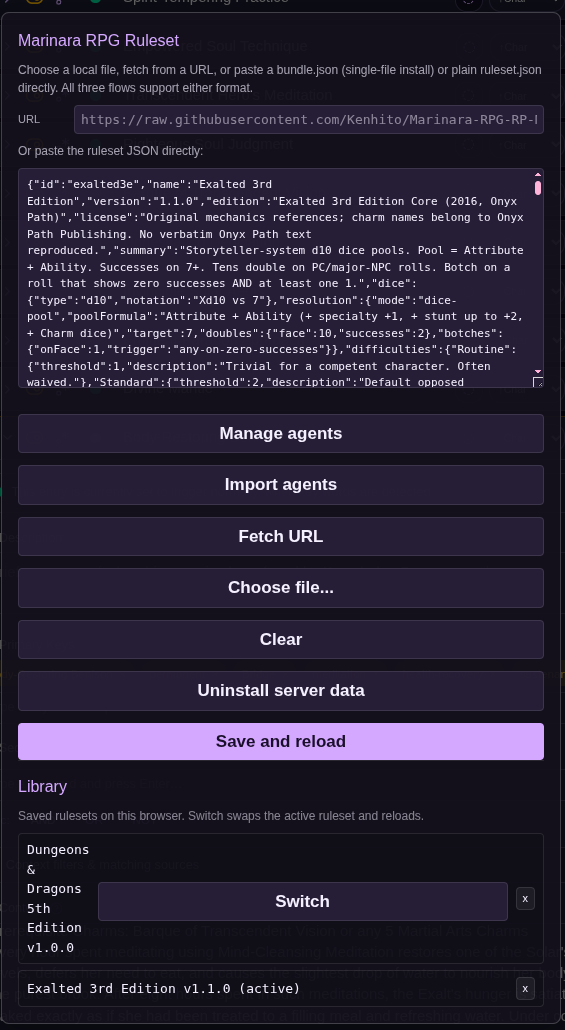
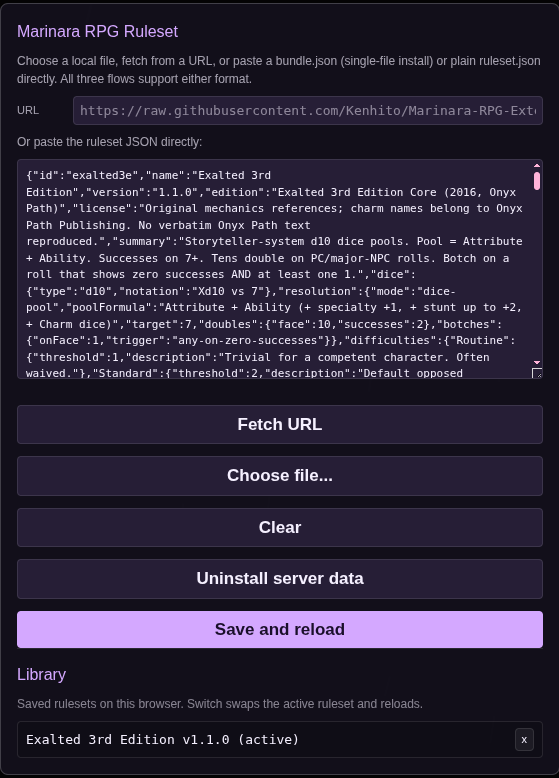
feat(extension): remove Manage agents button from Ruleset dialog
The Manage agents button was framework plumbing intended for the
RP-mode sister extension; in GM mode it never registered usable
agents because GM-mode chats run in chatMode: "game". Drop the
button, its click handler, and the now-orphaned helpers
(openAgentManagerDialog, listManagedAgentsByRuleset,
deleteManagedAgents, state.agentMgrDialogEl).

Also refresh docs/screenshots/ruleset-ui.png to match the new
button-less dialog and remove the README heads-up that was
flagging the agent buttons as RP-mode-only — they're gone now.

diff --git a/extension/RPG-Extension-GM-Mode.js b/extension/RPG-Extension-GM-Mode.js
@@ -89,7 +89,6 @@ var state = {
   dialogEl:          null,
   itemDialogEl:      null,
   abilityDialogEl:   null,
-  agentMgrDialogEl:  null,
   gearEl:            null,
   toggleEl:          null,
   spellbookEl:       null,
@@ -578,34 +577,6 @@ function installBundle(bundle, progressCb) {
    ruleset id. The local ruleset cache is left in place — Clear handles that
    separately. Same match strategy as install: settings flags on the agent,
    tag array on the lorebook. */
-/* List every agent the extension previously installed, grouped by
-   mrrRulesetId. Returns a Promise resolving to a map
-   { rulesetId: [{id, name, role, authorId, enabled}, ...] }
-   so the manage-agents UI can display + bulk-delete. Includes both the
-   main GM-style agent (no role) and any additionalAgents (with role).
-   Pre-existing duplicates (whether from older install code or authorId
-   drift) all show up and can be removed. */
-function listManagedAgentsByRuleset() {
-  return apiFetch("/agents").then(function (agents) {
-    var groups = {};
-    if (!Array.isArray(agents)) return groups;
-    agents.forEach(function (a) {
-      var s = parseAgentSettings(a);
-      if (s.mrrManaged !== true) return;
-      var rid = s.mrrRulesetId || "(unknown)";
-      if (!groups[rid]) groups[rid] = [];
-      groups[rid].push({
-        id: a.id,
-        name: a.name,
-        role: s.mrrAgentRole || null,
-        authorId: s.mrrAuthorId || null,
-        enabled: a.enabled === true || a.enabled === "true"
-      });
-    });
-    return groups;
-  });
-}
-
 /* The engine's DELETE endpoints (/agents/:id, /lorebooks/:id,
    /lorebooks/:lbId/entries/:entryId, etc.) all return 204 No Content with
    an empty body. marinara.apiFetch always calls res.json() unconditionally
@@ -645,96 +616,6 @@ function apiPostRaw(path, body) {
       throw err;
     });
   });
-}
-
-function deleteManagedAgents(ids, progressCb) {
-  function progress(msg) { if (progressCb) progressCb(msg); }
-  if (!Array.isArray(ids) || !ids.length) return Promise.resolve(0);
-  progress("Deleting " + ids.length + " agent(s)...");
-  return ids.reduce(function (chain, id) {
-    return chain.then(function () { return apiDeleteRaw("/agents/" + id); });
-  }, Promise.resolve()).then(function () { return ids.length; });
-}
-
-function openAgentManagerDialog() {
-  if (state.agentMgrDialogEl && state.agentMgrDialogEl.parentNode) {
-    state.agentMgrDialogEl.parentNode.removeChild(state.agentMgrDialogEl);
-    state.agentMgrDialogEl = null;
-  }
-  var backdrop = marinara.addElement(document.body, "div", { "class": "mrr-dialog-backdrop mrr-dialog-backdrop--open" });
-  if (!backdrop) return;
-  state.agentMgrDialogEl = backdrop;
-  var dialog = marinara.addElement(backdrop, "div", { "class": "mrr-dialog" });
-  if (!dialog) { document.body.removeChild(backdrop); state.agentMgrDialogEl = null; return; }
-
-  marinara.addElement(dialog, "h3", { textContent: "Manage MRR Agents" });
-  marinara.addElement(dialog, "p", {
-    textContent: "Every agent the extension created is listed below, grouped by ruleset. Use this to clean up duplicate agents accumulated from prior installs."
-  });
-  var msg = marinara.addElement(dialog, "div", { "class": "mrr-msg mrr-msg--info", textContent: "Loading..." });
-  var list = marinara.addElement(dialog, "div", { "class": "mrr-dialog__lib" });
-  var buttons = marinara.addElement(dialog, "div", { "class": "mrr-dialog__buttons" });
-  var refreshBtn = marinara.addElement(buttons, "button", { "class": "mrr-dice__btn mrr-dice__btn--secondary", textContent: "Refresh" });
-  var closeBtn = marinara.addElement(buttons, "button", { "class": "mrr-dice__btn", textContent: "Close" });
-
-  function close() {
-    if (backdrop && backdrop.parentNode) backdrop.parentNode.removeChild(backdrop);
-    if (state.agentMgrDialogEl === backdrop) state.agentMgrDialogEl = null;
-  }
-  marinara.on(backdrop, "click", function (e) { if (e.target === backdrop) close(); });
-  if (closeBtn) marinara.on(closeBtn, "click", close);
-
-  function refresh() {
-    if (msg) { msg.textContent = "Loading..."; msg.className = "mrr-msg mrr-msg--info"; }
-    if (list) list.textContent = "";
-    listManagedAgentsByRuleset().then(function (groups) {
-      var rids = Object.keys(groups).sort();
-      if (!rids.length) {
-        if (msg) { msg.textContent = "No managed agents found. You're clean."; msg.className = "mrr-msg mrr-msg--ok"; }
-        return;
-      }
-      if (msg) { msg.textContent = rids.length + " ruleset group(s) found."; msg.className = "mrr-msg mrr-msg--info"; }
-      rids.forEach(function (rid) {
-        var members = groups[rid];
-        var row = marinara.addElement(list, "div", { "class": "mrr-dialog__lib-row" });
-        if (!row) return;
-        var label = rid + " — " + members.length + " agent" + (members.length === 1 ? "" : "s");
-        marinara.addElement(row, "span", { "class": "mrr-dialog__lib-name", textContent: label });
-        var detailBtn = marinara.addElement(row, "button", { "class": "mrr-char-btn", type: "button", textContent: "Show" });
-        var delBtn = marinara.addElement(row, "button", { "class": "mrr-char-btn mrr-char-btn--danger", type: "button", textContent: "Delete all" });
-
-        if (detailBtn) marinara.on(detailBtn, "click", function () {
-          var lines = members.map(function (m) {
-            var roleLabel = m.role ? "[" + m.role + "]" : "[gm]";
-            var statusLabel = m.enabled ? " (enabled)" : " (disabled)";
-            return roleLabel + " " + (m.name || "(unnamed)") + statusLabel + "  id=" + m.id;
-          });
-          window.alert(rid + ":\n\n" + lines.join("\n"));
-        });
-
-        if (delBtn) marinara.on(delBtn, "click", function () {
-          if (!window.confirm("Delete ALL " + members.length + " agent(s) under \"" + rid + "\"?\n\nThis cannot be undone. The local ruleset cache is NOT affected.")) return;
-          delBtn.disabled = true;
-          if (msg) { msg.textContent = "Deleting " + rid + "..."; msg.className = "mrr-msg mrr-msg--info"; }
-          var ids = members.map(function (m) { return m.id; });
-          deleteManagedAgents(ids, function (s) { if (msg) msg.textContent = s; })
-            .then(function (n) {
-              if (msg) { msg.textContent = "Deleted " + n + " agent(s) under " + rid + "."; msg.className = "mrr-msg mrr-msg--ok"; }
-              refresh();
-            })
-            .catch(function (e) {
-              if (msg) { msg.textContent = "Delete failed: " + (e && e.message || e); msg.className = "mrr-msg mrr-msg--err"; }
-              delBtn.disabled = false;
-            });
-        });
-      });
-    }).catch(function (e) {
-      if (msg) { msg.textContent = "Load failed: " + (e && e.message || e); msg.className = "mrr-msg mrr-msg--err"; }
-    });
-  }
-
-  if (refreshBtn) marinara.on(refreshBtn, "click", refresh);
-  refresh();
 }
 
 function uninstallBundleArtifacts(rulesetId, authorId, progressCb) {
@@ -5283,7 +5164,6 @@ function openDialog() {
 
   var buttons = marinara.addElement(dialog, "div", { "class": "mrr-dialog__buttons" });
   if (buttons) {
-    var btnAgentMgr  = marinara.addElement(buttons, "button", { "class": "mrr-dice__btn mrr-dice__btn--secondary", textContent: "Manage agents" });
     var btnFetch     = marinara.addElement(buttons, "button", { "class": "mrr-dice__btn mrr-dice__btn--secondary", textContent: "Fetch URL" });
     var btnFile      = marinara.addElement(buttons, "button", { "class": "mrr-dice__btn mrr-dice__btn--secondary", textContent: "Choose file..." });
     var btnClear     = marinara.addElement(buttons, "button", { "class": "mrr-dice__btn mrr-dice__btn--secondary", textContent: "Clear" });
@@ -5305,10 +5185,6 @@ function openDialog() {
           : "ruleset " + (parsed.name || "?") + " v" + (parsed.version || "?");
         setMsg(msg, "Loaded " + label + " from file — click Save to activate.", "ok");
       });
-    });
-
-    if (btnAgentMgr) marinara.on(btnAgentMgr, "click", function () {
-      openAgentManagerDialog();
     });
 
     if (btnUninstall) marinara.on(btnUninstall, "click", function () {

diff --git a/README.md b/README.md
@@ -95,9 +95,7 @@ After import you should see `RPG-Extension-GM-Mode` listed under **Installed Ext
 
 **Step 4 — Open the Ruleset dialog and import a bundle.** Click the **Ruleset** button in the chat header. The dialog accepts a `bundle.json` three ways:
 
-![Marinara RPG Ruleset dialog. URL field at the top with a raw GitHub URL example, then a multi-line textarea showing a bundle.json paste. Top button row: Manage agents, Import agents (RP-mode-only — see note below). Following button row left-to-right: Fetch URL, Choose file..., Clear, Uninstall server data, Save and reload (highlighted as the primary action). Below that a Library section listing previously installed rulesets with Switch buttons.](docs/screenshots/ruleset-ui.png)
-
-> **Heads-up: the *Manage agents* and *Import agents* buttons at the top of this dialog are for the [Roleplay-Mode sister extension](https://github.com/Kenhito/Marinara-RPG-RP-Mode-Extension) — they do not apply to Game Mode.** The framework's plumbing supports them so the architecture can grow into GM-mode agent imports later, but as of v0.4.0 attempting to import an agents bundle here in GM mode will not register agents you can use in `chatMode: "game"` chats. If you want roleplay-mode agents, install the RP-mode extension. The optional GM-mode sub-agents (described under [Optional sub-agents](#optional-sub-agents-off-by-default) below) install via the ruleset bundle itself, not via these buttons.
+![Marinara RPG Ruleset dialog. URL field at the top with a raw GitHub URL example, then a multi-line textarea for the bundle or ruleset JSON. Buttons in order: Fetch URL, Choose file..., Clear, Uninstall server data, Save and reload (highlighted as the primary action). Below that a Library section listing previously installed rulesets.](docs/screenshots/ruleset-ui.png)
 
 - **Choose file…** — browse to the folder you extracted in Step 2, navigate to `rulesets/<system>/bundle.json` (one of `dnd5e`, `exalted3e`, `fate-core`, or `pathfinder2e`), and select it. Best for offline installs and the simplest path.
 - **Fetch URL** — paste a raw GitHub URL like `https://raw.githubusercontent.com/Kenhito/Marinara-RPG-Extension/main/rulesets/exalted3e/bundle.json` into the URL field, then click **Fetch URL**. To get a raw URL for any file on GitHub, open the file's page on github.com and click the **Raw** button at the top-right of the file viewer — that URL is what you paste here. Best when you'd rather not keep the extracted zip around.
